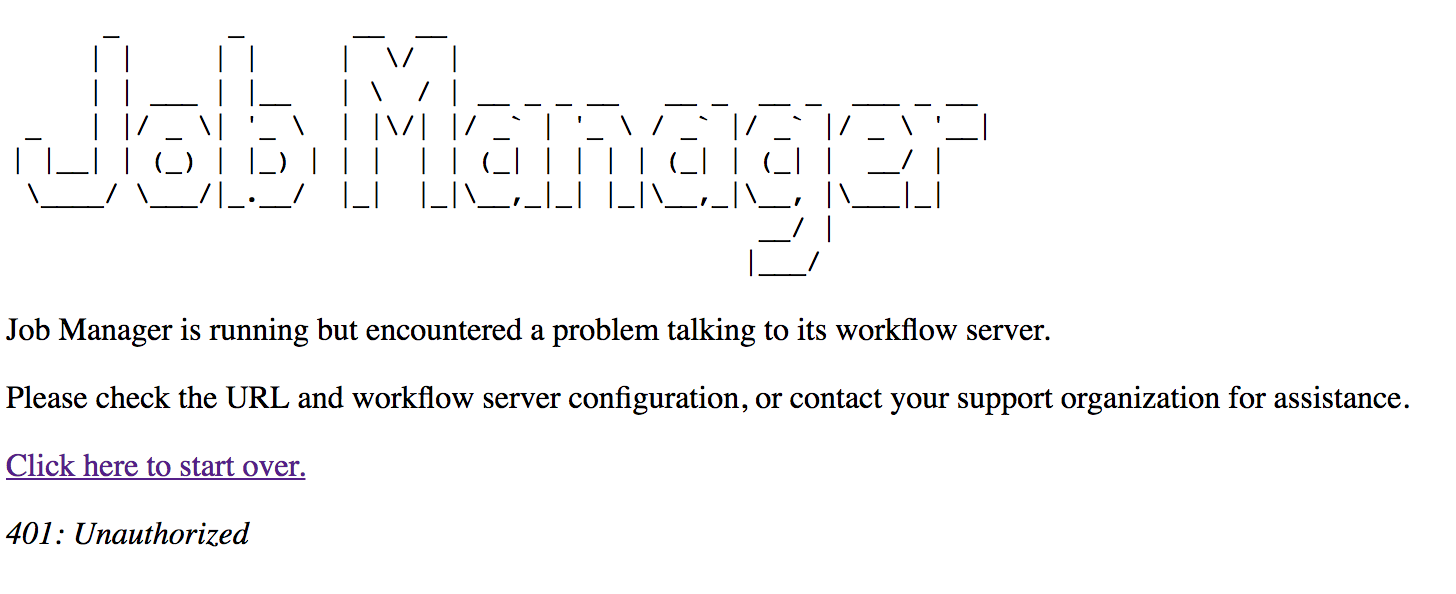
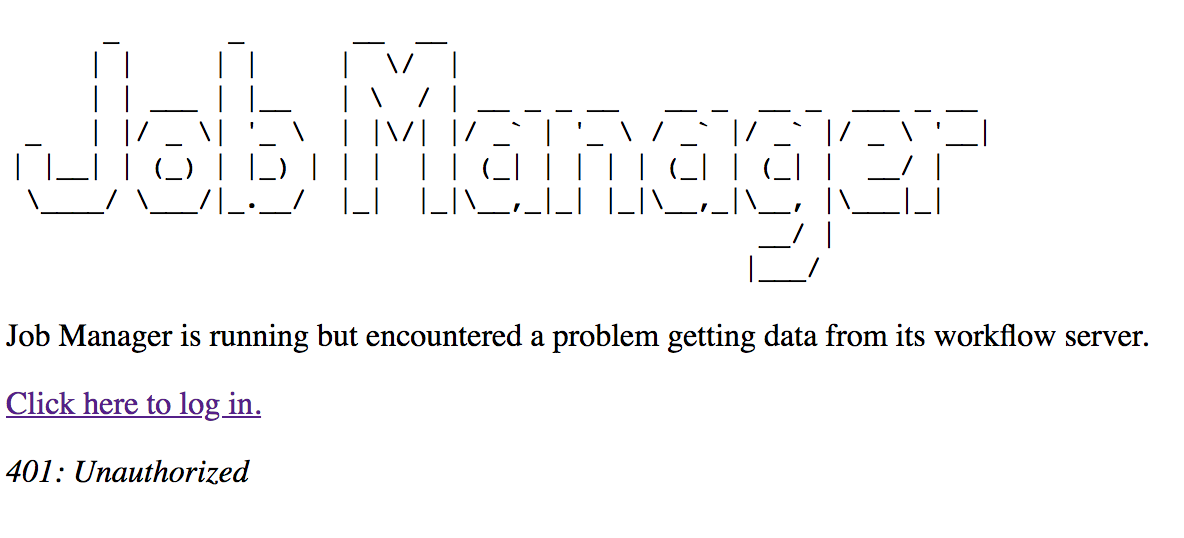
Corrections following #572

diff --git a/docs/Debugging/CromIAMDeployments.md b/docs/Debugging/CromIAMDeployments.md
@@ -7,9 +7,14 @@
 The UI is making unauthenticated requests to the shim layer, but the shim is
 rejecting them as unauthorized.
 
-In the UI, Job Manager cannot proceed.
+In the UI, Job Manager prompts you to log in but cannot proceed past this page:
+
+---
 
 ![401: Unauthorized](401_Unauthorized.png)
+
+---
+
 
 In the javascript console you see messages like: `ERROR Error: Uncaught (in promise): Object: {"status":401,"title":"Unauthorized","message":"User not authorized to access this resource."}`
 
@@ -30,7 +35,8 @@ Or, perhaps you've set the environment variable `USE_CAAS=True` manually.
 
 #### Resolution
 
-Add an `authentication` section to the end of the Cromwell shim's `capabilities.conf`:
+Add an `authentication` section to the end of the Cromwell shim's `capabilities.conf`. When the UI
+reads this, it then knows how to direct users to the oauth login.
 
 ```json
 {
